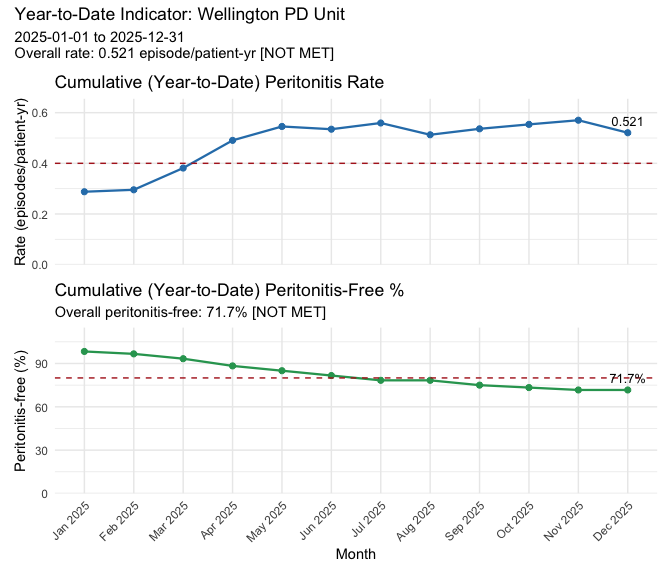
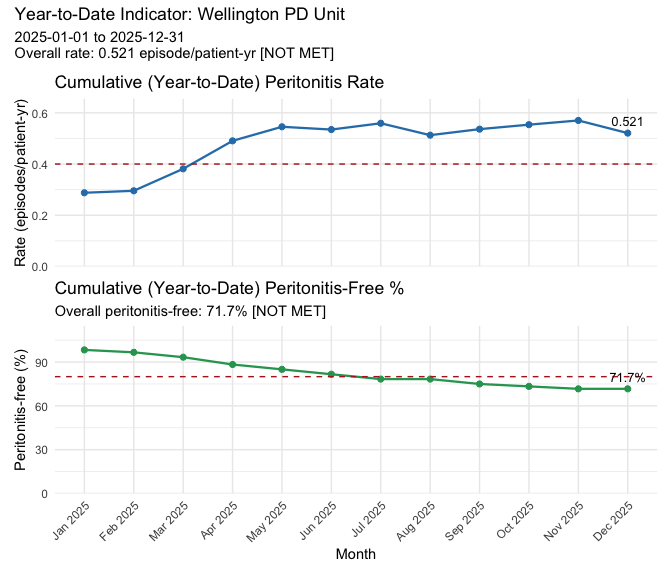
new README section and the renamed vignette heading

diff --git a/README.md b/README.md
@@ -37,7 +37,8 @@ is consistent with the level above.
 
 ## Installation
 
-peridial is not on CRAN. Install the development version from GitHub:
+peridial is not on CRAN. Install the development version from GitHub and
+building the vignettes locally:
 
 ``` r
 # install.packages("remotes")
@@ -71,8 +72,12 @@ library(peridial)
 install.packages(c("ggplot2", "patchwork"))
 ```
 
-To build the vignettes locally as well, use
-`remotes::install_github("ernestcaballero/peRidial", build_vignettes = TRUE)`.
+To view the vignettes:
+
+``` r
+browseVignettes("peridial")
+#> starting httpd help server ... done
+```
 
 ## Worked example
 
@@ -224,6 +229,55 @@ Optional columns, such as PD Stop Date, Date of Death and Transplant
 Date, affect censoring and patient-years. The full list, accepted value
 formats, and a step-by-step example of renaming a registry export are in
 `vignette("peridial")`.
+
+## Definitions and assumptions
+
+peridial follows the ISPD 2022 definitions (Li et al., 2022). The full derivation, with a worked example, is in `vignette("indicators-classification")`.
+
+**Time at risk.** For each catheter, the days at risk inside the reporting period $[t_0, t_1]$ are
+
+$$
+d = \max\Big(0,\; \min(\text{stop},\, t_1,\, \tau) - \max(\text{start},\, t_0) + 1\Big)
+$$
+
+where *start* and *stop* are the PD start and stop dates of the catheter (a missing stop means it is still in use), and $\tau$ is the date the patient permanently left PD (death, transplant or permanent transfer to haemodialysis). Both end days are counted. The unit's patient-years are $PY = \sum d / 365.25$.
+
+**Peritonitis rate** (ISPD target: ≤ 0.40 episodes per patient-year):
+
+$$
+\text{rate} = \frac{E}{PY}
+$$
+
+where $E$ is the number of episodes inside their catheter's active window, excluding relapsing episodes.
+
+**Peritonitis-free percentage** (ISPD target: > 80% per year):
+
+$$
+\text{PF} = \frac{N_0}{N} \times 100
+$$
+
+where $N$ is the number of patients with at least one day on PD in the period and $N_0$ is the number of them with no countable episode.
+
+**Episode classification.** Each episode is compared with the same patient's immediately preceding valid episode, measured from that episode's **last antibiotic dose**:
+
+| Type | Days since last dose of previous episode | Organism | Counted in the rate? |
+|---|---|---|---|
+| Relapsing | 0 to 28 (**day 28 counts as relapsing**) | same, or either episode culture-negative | No |
+| Recurrent | 0 to 28 | different | Yes |
+| Repeat | 29 or more | same | Yes |
+| `NA` | first episode, or different organism after 28 days | — | Yes |
+
+### Limitations and assumptions
+
+- **Organism names must match exactly when classifying on your own.** `pd_unit()` standardises organism spellings against the package's accepted list (case, whitespace and common synonyms such as `E. coli` / `Escherichia coli`), and stops with an error if a name is not on the list. Called on their own, `classify_episode_types()` and `get_episode_type()` ignore case and order but otherwise compare names as given, so `"E. coli"` and `"Escherichia coli"` count as different organisms. Standardise names first, or go through `pd_unit()`.
+- **Polymicrobial episodes** are the same organism only if their organism lists are identical (`E. coli` + `Klebsiella` is not the same as `E. coli` alone).
+- **Episodes before $t_0$ must be in the file** to be used as the previous episode. Otherwise an early-period relapse is counted as a new episode and the rate is overstated; `pd_unit()` warns, naming the patients to check.
+- **Invalid episodes are not dropped silently.** `classify_episode_types()` returns `NA` for them with a warning that gives the row number and reason, and does not use them as the previous episode; `pd_unit()` lists them as data problems and builds no unit until they are fixed.
+- **Time at risk** is not reduced for days in hospital or interim haemodialysis, and uses a 365.25-day year.
+- **Overlapping catheters** for one patient are treated as a data error; the build stops and names the catheters and dates.
+- **Missing dates.** A transplant or permanent transfer to haemodialysis recorded without a date is handled by an assumption (the patient is treated as still on PD, or censored at an earlier recorded end), and a warning is raised. Dates that cannot be read are set to missing, with a warning.
+- **The peritonitis-free target is per year.** `summary()` warns when the reporting period is not one year.
+- **Column names** are matched by keyword against the package's synthetic example files, not against an official ANZDATA or NZPDR export, so a registry extract may need renaming first (see `vignette("peridial")`).
 
 ## Learn more
 
